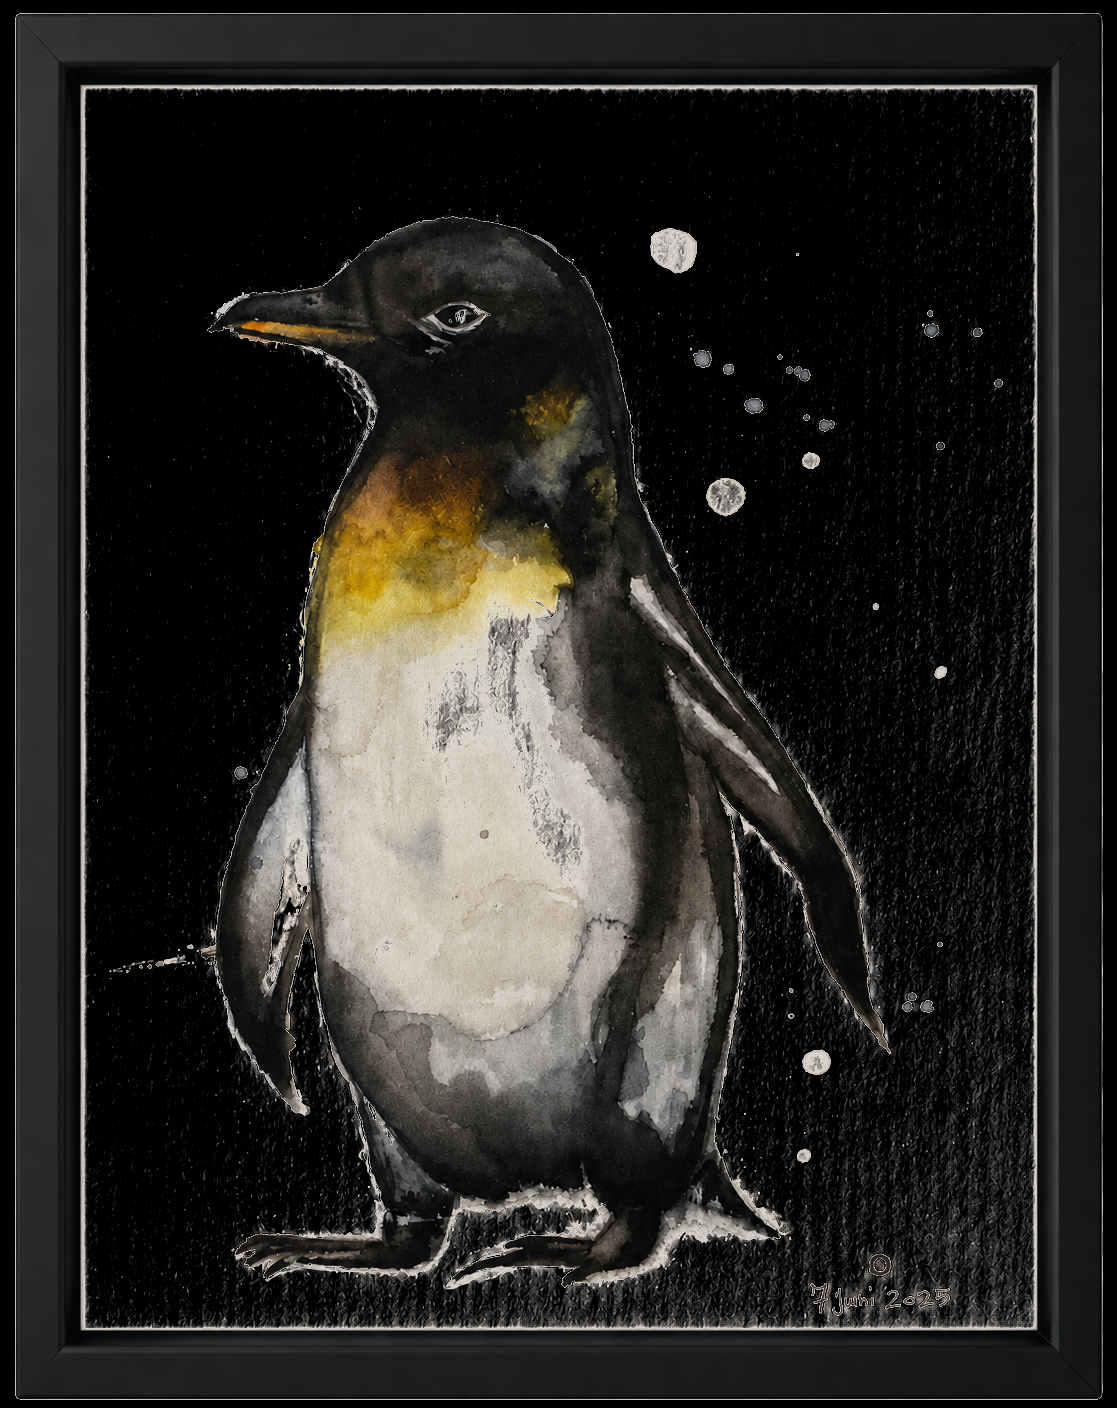
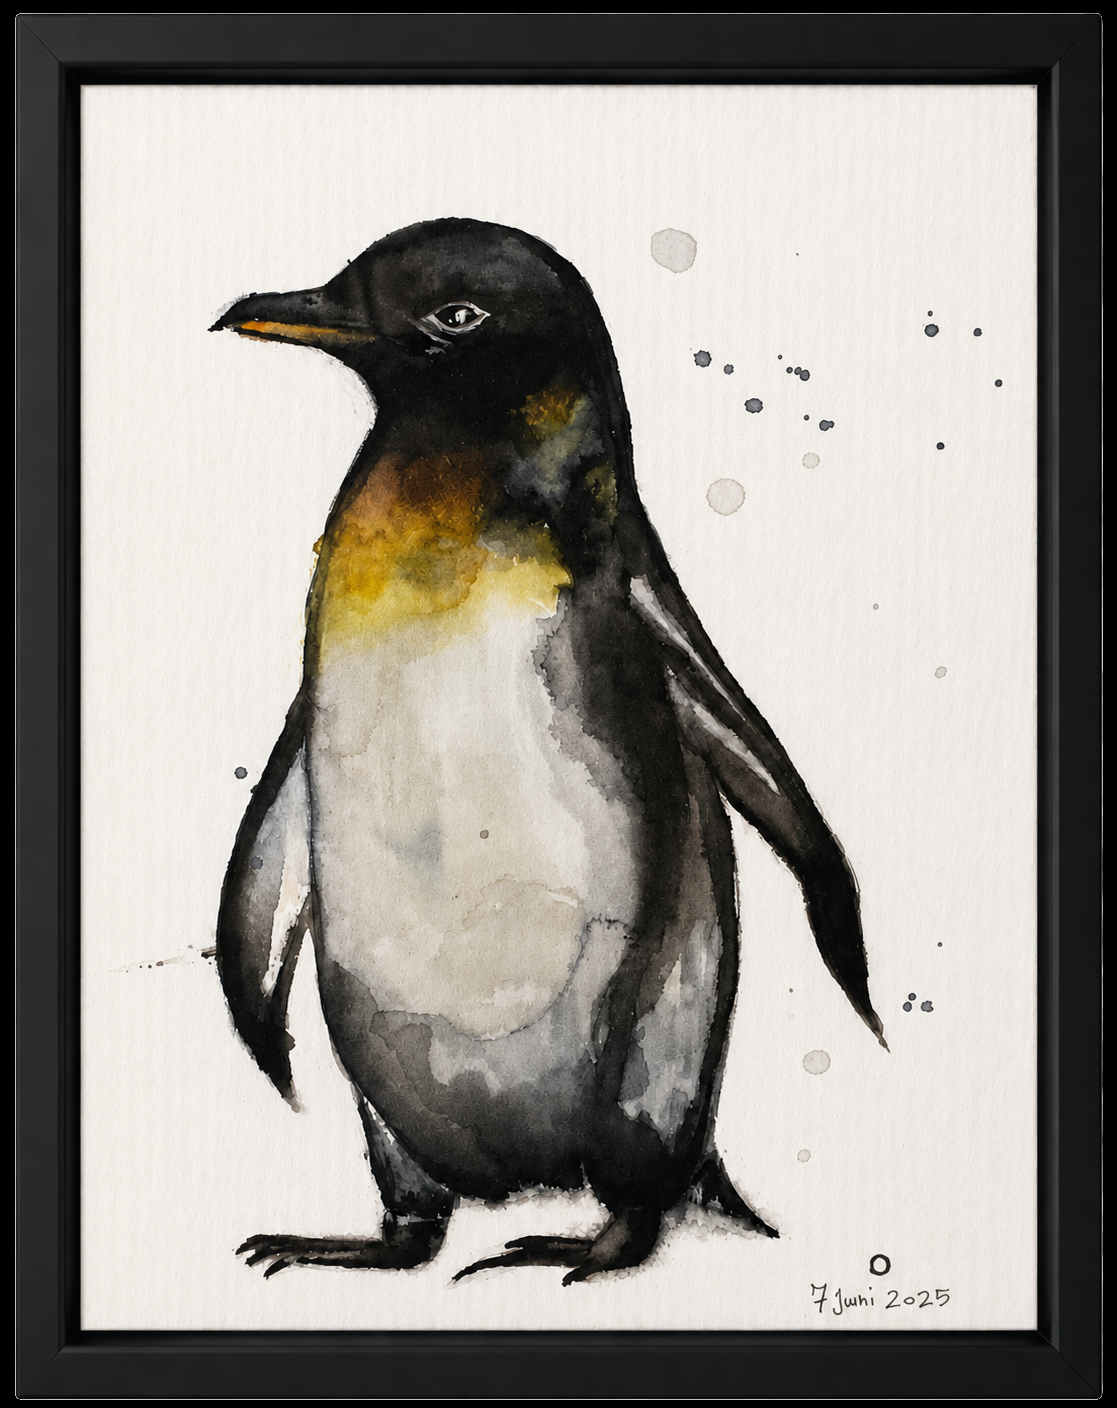
Fix penguin painting darkened + gallery tile letterbox blends with site
Two corrections to the previous attempt:

1. The penguin's WATERCOLOUR PAPER inside the frame was being turned
   black -- the white-to-black replacement was running on every pure-
   white pixel in the whole image, including the white paper that the
   penguin painting sits on. So the penguin appeared to be floating in
   a black void.

   New approach: detect the frame's outer bounding box first, then run
   white-to-black ONLY on pixels OUTSIDE that box (i.e., the photo's
   outer white margin). Pixels inside the box (the frame + the
   painting) are left untouched.

   Result: outer white margin still gets blackened (so visual frame
   thickness matches bouquet/lovebirds at ~80px total), AND the
   penguin's white watercolour paper is preserved inside.

   Same logic applied to the acrylic flowers (which also has light
   colors inside the painting that would have been affected).

2. Gallery tiles had a solid jasmin background that showed in the
   letterboxing area (where the image aspect didn't fill the tile's
   3:4 aspect). The user was seeing this as "white above/below the
   acrylic from the container".

   Tiles + image elements are now transparent, so the site's actual
   jasmin-pattern flows through any letterboxing. Same approach as
   the scroll tile -- consistent treatment across all paintings.
   Box-shadow removed since it would render oddly around a transparent
   tile.

diff --git a/index.html b/index.html
@@ -187,12 +187,14 @@ nav ul{align-items:center;}
 .gallery-item{
   grid-column:span 2; /* default = A5 size */
   position:relative;overflow:hidden;cursor:pointer;
-  background:#EFF5EB;
-  box-shadow:0 4px 30px rgba(28,26,22,.10);
-  transition:box-shadow .4s, transform .4s;
+  /* Transparent so the site's jasmin-pattern flows through any letterboxing
+     (where the image aspect doesn't perfectly fill the 3:4 tile). Avoids the
+     visible solid-jasmin rectangle that read as "white frame around the image". */
+  background:transparent;
+  transition:transform .4s;
 }
-.gallery-item:hover{box-shadow:0 12px 50px rgba(28,26,22,.18);transform:translateY(-3px);}
-.gallery-item img{width:100%;aspect-ratio:3/4;object-fit:contain;object-position:center;display:block;background:#EFF5EB;transition:transform .65s ease;}
+.gallery-item:hover{transform:translateY(-3px);}
+.gallery-item img{width:100%;aspect-ratio:3/4;object-fit:contain;object-position:center;display:block;background:transparent;transition:transform .65s ease;}
 .gallery-item:hover img{transform:scale(1.03);}
 .gallery-item.size-a4{
   grid-column:span 3;
